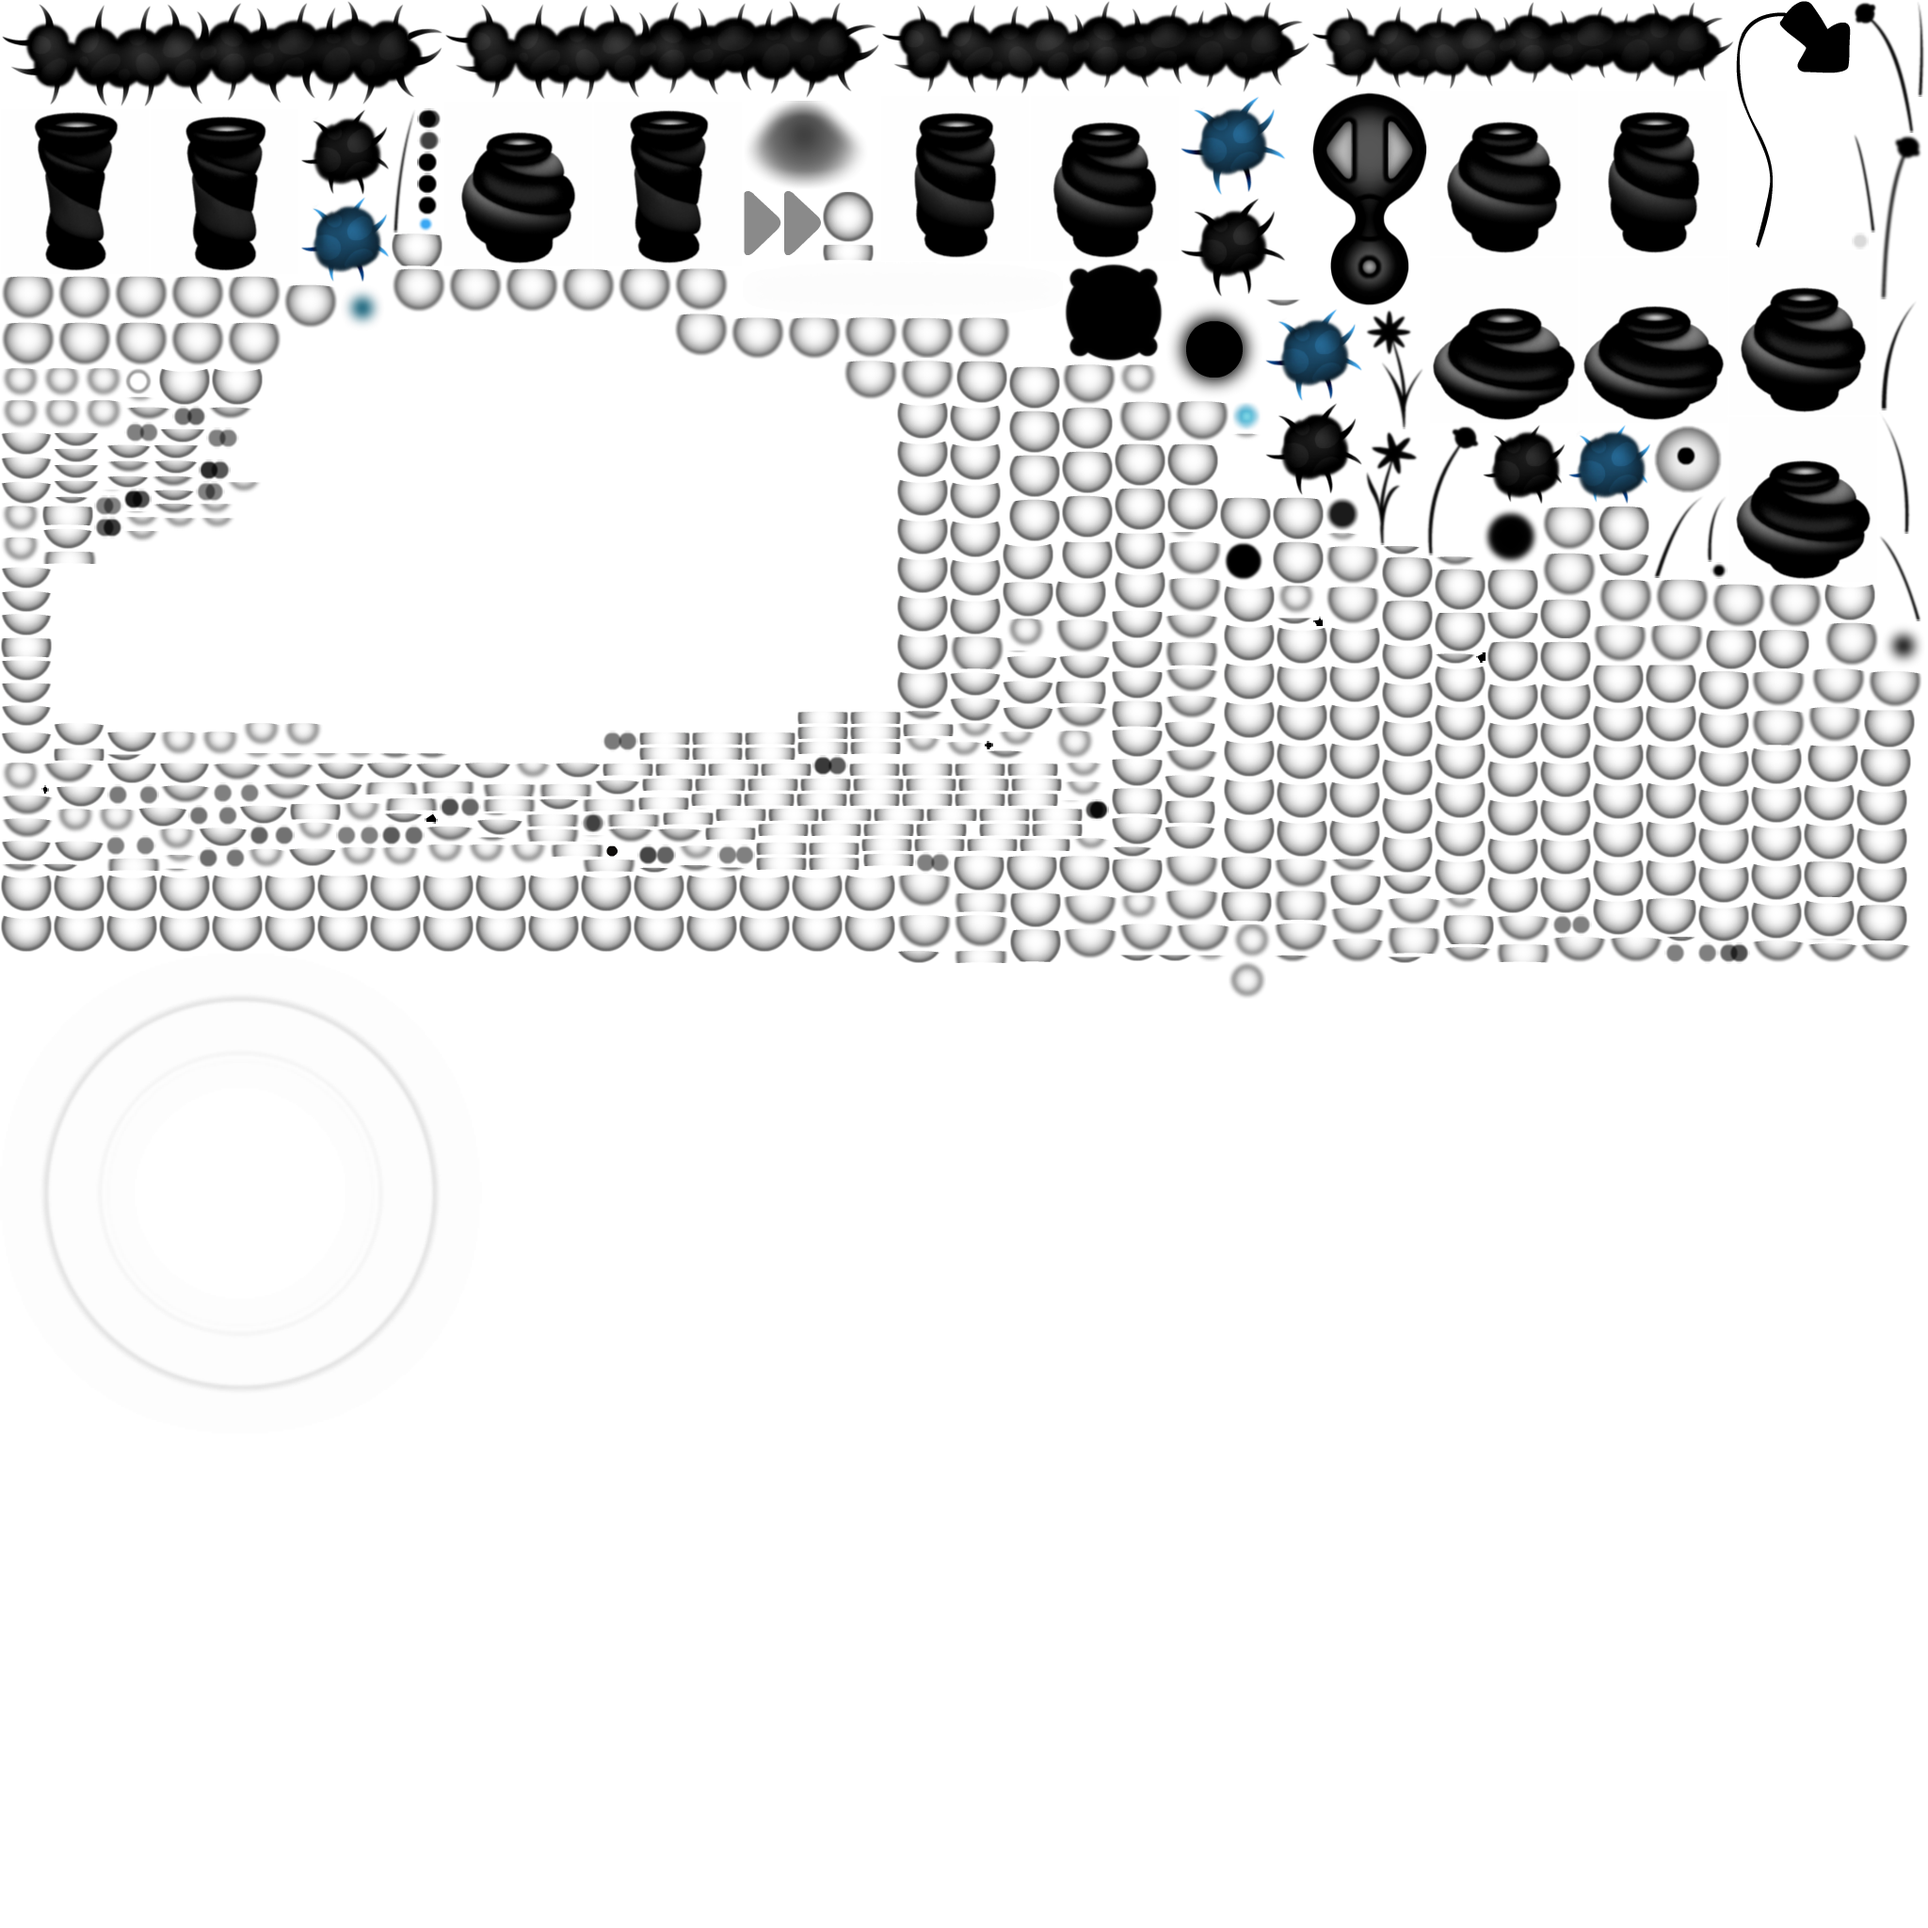
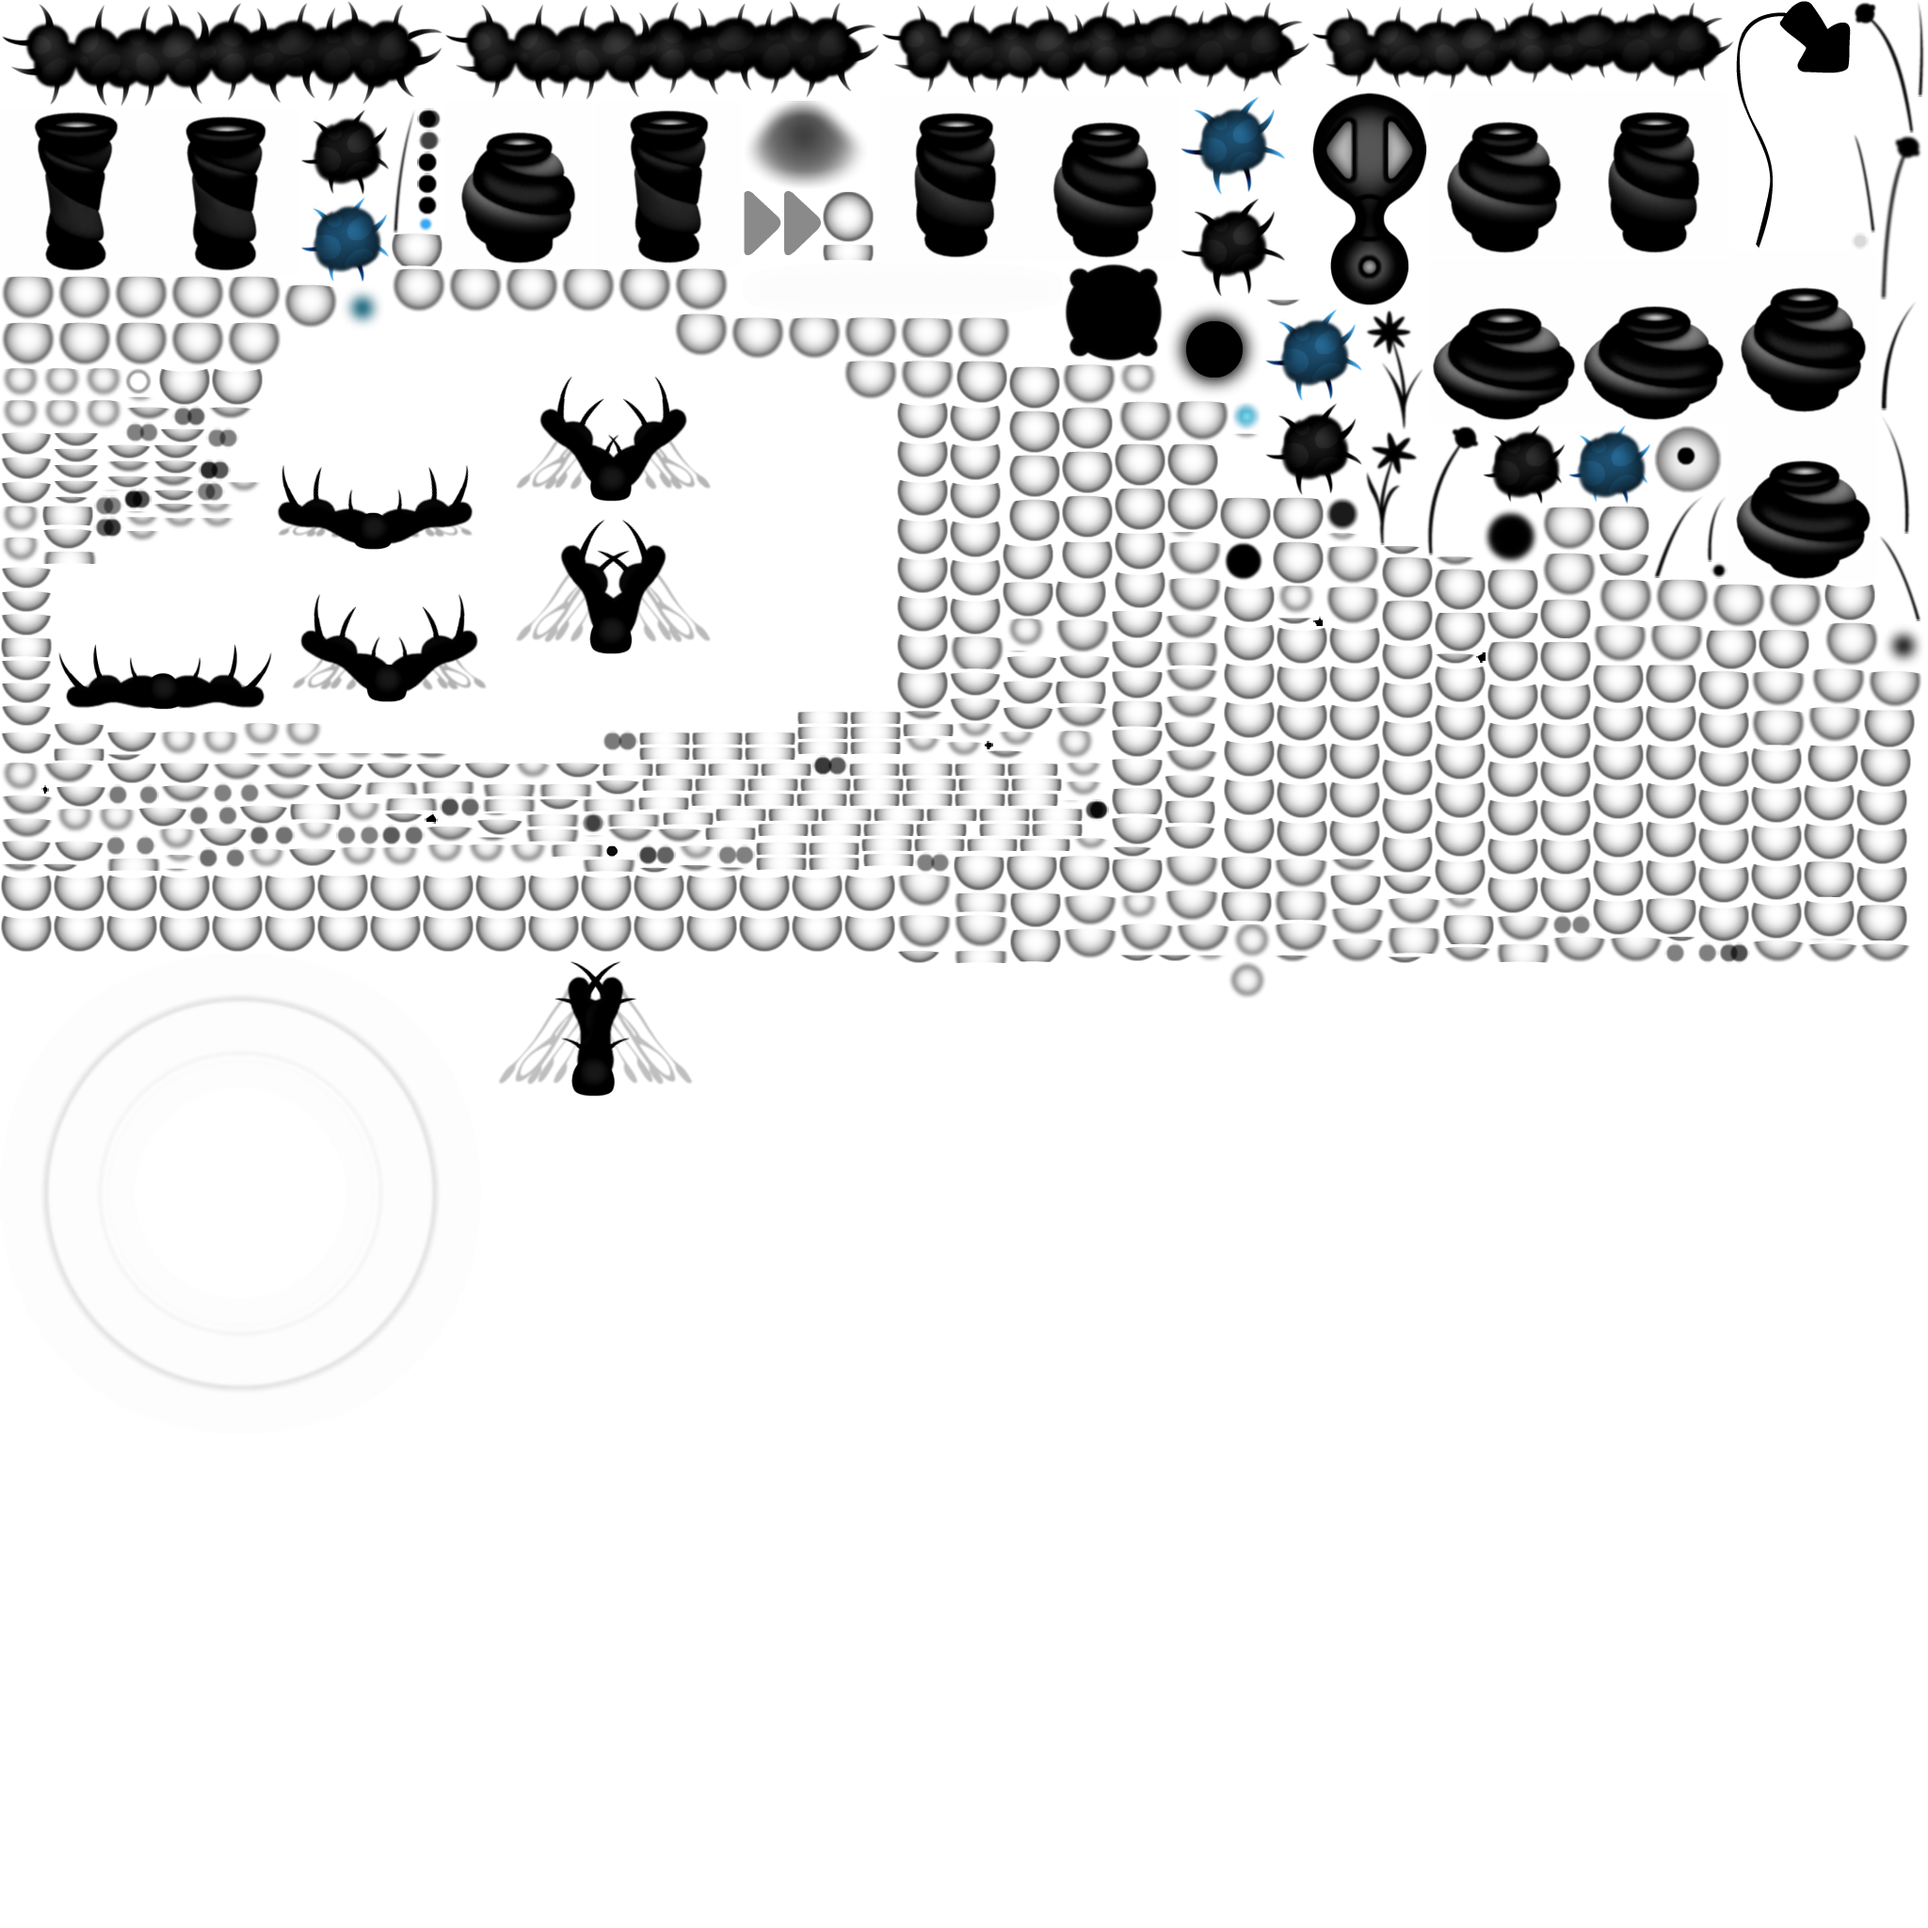
feat: use the ios spikes flower movie with hd frames

diff --git a/src/ContreJour/ContreJour/Gameplay/SpikesFlowerBodyClip.cs b/src/ContreJour/ContreJour/Gameplay/SpikesFlowerBodyClip.cs
@@ -47,14 +47,14 @@ namespace ContreJour.Gameplay
                 Scale = Clip.ScaleY
             };
             container.AddChild(node);
-            movie = Game.BonusChapter ? new SingleMovieSpikesView((MovieClip)clip) : (ISpikesView)clip;
+            movie = Clip as ISpikesView ?? new SingleMovieSpikesView((MovieClip)Clip);
             movie.Left.Stoped = movie.Right.Stoped = true;
             movie.Left.Speed = movie.Right.Speed = 1.5f;
             drawing = new SpikesFlowerSprite(this, Clip.ScaleY);
             container.AddChild(drawing, -1);
         }
 
-        // Mango exports the complete flower as one movie, so both sides use its player.
+        // iOS and Mango export the complete flower as one movie, so both sides use its player.
         private sealed class SingleMovieSpikesView(MovieClip clip) : ISpikesView
         {
             public MovieClip Left => clip;

diff --git a/src/ContreJour/ContreJour/Content/ClipCatalog.cs b/src/ContreJour/ContreJour/Content/ClipCatalog.cs
@@ -590,7 +590,7 @@ namespace ContreJour.Content
                 "McSpikesCenter" => new(ClipIds.Common.McSpikesCenter, ClipKind.Sprite),
                 "McSpikesFlowerShadow" => new(ClipIds.Common.McSpikesFlowerShadow, ClipKind.Sprite),
                 "McSpikesPart" => new(ClipIds.Common.McSpikesPart, ClipKind.MovieClip),
-                "McSpikesView" => new(ClipIds.Common.McSpikesView, ClipKind.Composite, static () => new Clips.common.McSpikesView()),
+                "McSpikesView" => new(ClipIds.Common.McSpikesView, ClipKind.MovieClip),
                 "McSpringShadow" => new(ClipIds.Common.McSpringShadow, ClipKind.Sprite),
                 "McSpringShadow_5" => new(ClipIds.Common.McSpringShadow_5, ClipKind.Sprite),
                 "McSpringView_5" => new(ClipIds.Common.McSpringView_5, ClipKind.MovieClip),

diff --git a/src/ContreJour.Tests/ClipCatalogTests.cs b/src/ContreJour.Tests/ClipCatalogTests.cs
@@ -15,7 +15,7 @@ namespace ContreJour.Tests
         [InlineData("McColorFix", "chapter4Backgrounds/McColorFix", ClipKind.Sprite)]
         [InlineData("McTear", "level1/McTear", ClipKind.MovieClip)]
         [InlineData("McInspired", "level1/McInspired", ClipKind.Sprite)]
-        [InlineData("McSpikesView", "common/McSpikesView", ClipKind.Composite)]
+        [InlineData("McSpikesView", "common/McSpikesView", ClipKind.MovieClip)]
         public void NamesResolveToTheFirstSearchedFolder(string name, string id, ClipKind kind)
         {
             ClipEntry entry = ClipCatalog.Find(name);
